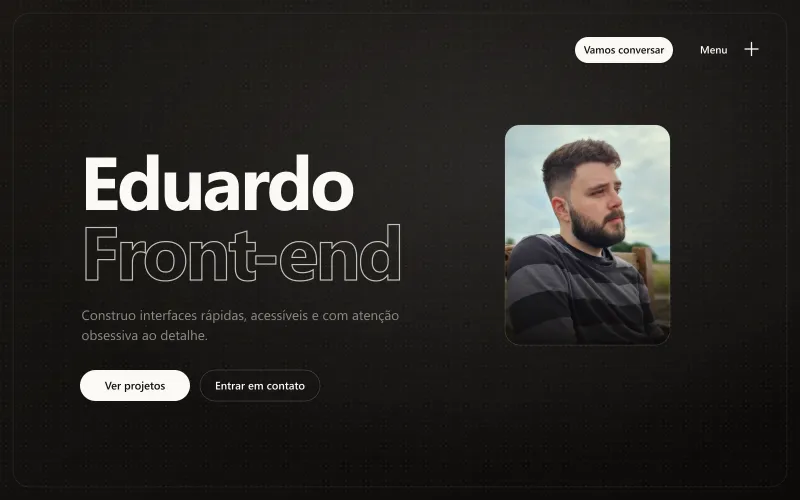
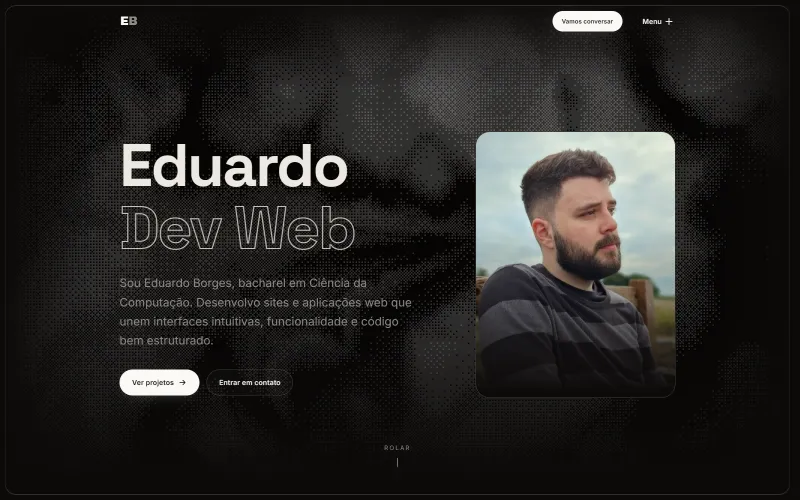
Correções da crítica: contato, projetos e ordem das seções
- Formulário não apaga a mensagem após o mailto; aviso com botão para
  copiar a mensagem caso o app de e-mail não abra
- Linha de disponibilidade no contato; "Vamos conversar" visível na
  barra do celular; campos com 16px e placeholder com contraste 4.9:1
- Captura nova do Portfólio (Dev Web) e texto do AFlo sobre o que foi
  construído; etiquetas de tecnologia em 11.5px
- Seção dos cubos depois de Projetos e com rolagem mais curta
- PRODUCT.md e registros do Impeccable (fora do deploy)

diff --git a/index.html b/index.html
@@ -387,6 +387,47 @@
       </div>
     </section>
 
+    <section class="section projetos" id="projetos">
+      <div class="container">
+        <header class="section__head" data-reveal>
+          <h2 class="section__title">Projetos</h2>
+          <p class="section__desc">Alguns projetos que desenvolvi.</p>
+        </header>
+
+        <div class="morph-slider" data-morph-slider
+             data-transition="melt"
+             data-intensity="0.5"
+             data-aberration="0.3"
+             data-drift="0.35"
+             data-duration="1.1"
+             data-autoplay="true"
+             data-autoplay-delay="5"
+             data-overlay-color="#0c0a09">
+
+          <ol class="morph-slider-items">
+            <li class="morph-slider-item"
+                data-titulo="AFlo"
+                data-descricao="Loja online de buquês artesanais de chenille. Construí o montador em que o cliente escolhe flor por flor, o checkout com Mercado Pago e o painel que organiza a produção dos pedidos."
+                data-stack="Next.js · TypeScript · Tailwind CSS · Prisma · PostgreSQL · Mercado Pago">
+              <a href="https://aflo-aflo.vercel.app/" target="_blank" rel="noopener noreferrer">Ver projeto</a>
+              <img src="assets/projetos/aflo.webp" srcset="assets/projetos/aflo-800.webp 800w, assets/projetos/aflo.webp 1600w" sizes="(max-width: 699px) calc(100vw - 4.5rem), 1100px" alt="Página inicial da loja AFlo, com um buquê de flores de chenille" width="1600" height="759" loading="lazy">
+            </li>
+
+            <li class="morph-slider-item"
+                data-titulo="Portfólio"
+                data-descricao="Meu portfólio pessoal, o site que você está vendo agora."
+                data-stack="HTML · CSS · JavaScript · GSAP · WebGL">
+              <a href="https://www.eduardobcg.com.br" target="_blank" rel="noopener noreferrer">Abrir site</a>
+              <img src="assets/projetos/portfolio.webp" srcset="assets/projetos/portfolio-800.webp 800w, assets/projetos/portfolio.webp 1600w" sizes="(max-width: 699px) calc(100vw - 4.5rem), 1100px" alt="Página inicial do portfólio de Eduardo Borges" width="1600" height="1000" loading="lazy">
+            </li>
+
+            
+
+          </ol>
+        </div>
+      </div>
+    </section>
+
     <section
       class="scroll-expand"
       data-scroll-expand
@@ -397,8 +438,8 @@
       data-start-radius="24"
       data-end-radius="0"
       data-media-zoom="1.35"
-      data-scroll-distance="1.2"
-      data-hold-distance="0.35"
+      data-scroll-distance="0.8"
+      data-hold-distance="0.2"
       data-smoothing="0.1"
       data-overlay-scrim="0.5"
       aria-label="Apresentação em tela cheia">
@@ -439,47 +480,6 @@
       </div>
     </section>
 
-    <section class="section projetos" id="projetos">
-      <div class="container">
-        <header class="section__head" data-reveal>
-          <h2 class="section__title">Projetos</h2>
-          <p class="section__desc" data-dica-lista="Alguns projetos que desenvolvi.">Arraste, use as setas ou espere — cada projeto abre no botão.</p>
-        </header>
-
-        <div class="morph-slider" data-morph-slider
-             data-transition="melt"
-             data-intensity="0.5"
-             data-aberration="0.3"
-             data-drift="0.35"
-             data-duration="1.1"
-             data-autoplay="true"
-             data-autoplay-delay="5"
-             data-overlay-color="#0c0a09">
-
-          <ol class="morph-slider-items">
-            <li class="morph-slider-item"
-                data-titulo="AFlo"
-                data-descricao="Loja de buquês artesanais de chenille, com montador passo a passo, checkout no Mercado Pago e painel de produção."
-                data-stack="Next.js · TypeScript · Tailwind CSS · Prisma · PostgreSQL · Mercado Pago">
-              <a href="https://aflo-aflo.vercel.app/" target="_blank" rel="noopener noreferrer">Ver projeto</a>
-              <img src="assets/projetos/aflo.webp" srcset="assets/projetos/aflo-800.webp 800w, assets/projetos/aflo.webp 1600w" sizes="(max-width: 699px) calc(100vw - 4.5rem), 1100px" alt="Página inicial da loja AFlo, com um buquê de flores de chenille" width="1600" height="759" loading="lazy">
-            </li>
-
-            <li class="morph-slider-item"
-                data-titulo="Portfólio"
-                data-descricao="Meu portfólio pessoal, o site que você está vendo agora."
-                data-stack="HTML · CSS · JavaScript · GSAP · WebGL">
-              <a href="https://www.eduardobcg.com.br" target="_blank" rel="noopener noreferrer">Abrir site</a>
-              <img src="assets/projetos/portfolio.webp" srcset="assets/projetos/portfolio-800.webp 800w, assets/projetos/portfolio.webp 1600w" sizes="(max-width: 699px) calc(100vw - 4.5rem), 1100px" alt="Página inicial do portfólio de Eduardo Borges" width="1600" height="1000" loading="lazy">
-            </li>
-
-            
-
-          </ol>
-        </div>
-      </div>
-    </section>
-
     <section class="section contato" id="contato">
       <div class="container">
         <header class="section__head" data-reveal>
@@ -496,6 +496,11 @@
               Se você precisa de um site, uma aplicação web ou quer conversar sobre uma
               oportunidade profissional, entre em contato. Será um prazer entender o que
               você precisa e encontrar a melhor solução.
+            </p>
+
+            <p class="contato__status" data-reveal>
+              <span class="contato__status-ponto" aria-hidden="true"></span>
+              Disponível para projetos e vagas · remoto, atendo todo o Brasil
             </p>
 
             <div class="contato__mail-row" data-reveal>

diff --git a/js/main.js b/js/main.js
@@ -101,9 +101,21 @@
 
       window.location.href = `mailto:eduardo26eduardo@gmail.com?subject=${subject}&body=${body}`;
 
-      status.textContent = 'Abrindo seu app de e-mail com a mensagem pronta…';
-      status.classList.add('is-success');
-      form.reset();
+      // Não dá para saber se o app de e-mail abriu. Por isso a mensagem fica
+      // no formulário (antes ela era apagada e se perdia quando não havia app)
+      // e há um jeito de levar o texto para outro lugar.
+      const mensagemCompleta = `${data.get('mensagem')}\n\n${data.get('nome')}\n${data.get('email')}`;
+      status.classList.add('is-info');
+      status.innerHTML =
+        'Abri seu app de e-mail com a mensagem pronta. Se ele não abriu, ' +
+        '<button type="button" class="form-status__copy">copie a mensagem</button> ' +
+        'e envie para eduardo26eduardo@gmail.com.';
+      status.querySelector('.form-status__copy').addEventListener('click', (ev) => {
+        const botao = ev.currentTarget;
+        copiarTexto(mensagemCompleta)
+          .then(() => { botao.textContent = 'mensagem copiada'; })
+          .catch(() => { botao.textContent = 'não deu para copiar'; });
+      });
     });
   }
 })();

diff --git a/css/layout.css b/css/layout.css
@@ -403,8 +403,28 @@
 
 .contato__texto {
   max-width: 46ch;
-  margin-bottom: 2rem;
+  margin-bottom: 1.4rem;
   color: var(--muted);
+}
+
+/* disponibilidade: fato confirmado que responde "ele pode pegar agora?" */
+.contato__status {
+  display: flex;
+  align-items: flex-start;
+  gap: .6rem;
+  margin-bottom: 1.6rem;
+  font-size: var(--fs-sm);
+  font-weight: 500;
+  color: var(--text);
+}
+.contato__status-ponto {
+  flex: none;
+  margin-top: .5em;
+  width: .5rem;
+  height: .5rem;
+  border-radius: 50%;
+  background: #4ade80;
+  box-shadow: 0 0 0 4px rgba(74, 222, 128, .14);
 }
 
 .contato__mail-row {
@@ -484,7 +504,13 @@
 }
 
 @media (max-width: 768px) {
-  .nav__inner .nav__cta { display: none; }
+  /* o contato é o objetivo do site: o botão fica na barra também no
+     celular, onde a maioria abre o link; só fica mais compacto */
+  .nav__inner { gap: 1rem; }
+  .nav__inner .nav__cta {
+    min-height: 40px;
+    padding-inline: .95rem;
+  }
 
   .hero {
     min-height: auto;

diff --git a/css/components.css b/css/components.css
@@ -171,7 +171,8 @@
   border-radius: var(--radius-sm);
   background: var(--bg);
   color: var(--text);
-  font-size: var(--fs-sm);
+  /* 16px: abaixo disso o Safari do iPhone dá zoom no campo ao tocar */
+  font-size: 1rem;
   transition: border-color .25s var(--ease-out), background .25s var(--ease-out);
   resize: vertical;
 }
@@ -214,3 +215,14 @@
 }
 .form-status.is-success { color: #4ade80; }
 .form-status.is-error   { color: #f87171; }
+.form-status.is-info    { color: var(--accent-2); }
+
+.form-status__copy {
+  padding: 0;
+  color: var(--text);
+  font-weight: 600;
+  text-decoration: underline;
+  text-underline-offset: .2em;
+  text-decoration-color: rgba(250, 249, 246, .4);
+}
+.form-status__copy:hover { text-decoration-color: currentColor; }

diff --git a/css/base.css b/css/base.css
@@ -53,7 +53,7 @@ a { color: inherit; text-decoration: none; }
   --surface-2:   #211d18;
   --text:        #ece8e1;
   --muted:       #8f8a83;
-  --placeholder: #6f6a63;
+  --placeholder: #86817a;
   --line:        rgba(250, 249, 246, .09);
   --line-strong: rgba(250, 249, 246, .18);
 

diff --git a/css/morph-slider.css b/css/morph-slider.css
@@ -88,7 +88,7 @@
   padding: .28rem .65rem;
   border-radius: var(--radius-pill);
   border: 1px solid var(--line-strong);
-  font-size: .68rem;
+  font-size: .72rem;
   font-weight: 500;
   line-height: 1.2;
   letter-spacing: .08em;

diff --git a/PRODUCT.md b/PRODUCT.md
@@ -1,0 +1,64 @@
+# Product
+
+<!-- impeccable:product-schema 1 -->
+
+## Platform
+
+web
+
+## Users
+
+Dois públicos com o mesmo peso:
+
+- **Clientes**: pessoas e pequenos negócios que precisam de um site ou de uma aplicação web e estão avaliando quem contratar.
+- **Recrutadores e empresas**: quem avalia Eduardo para uma vaga de desenvolvedor web.
+
+Os dois chegam pelo link (LinkedIn, GitHub, indicação ou busca pelo nome) e precisam decidir em poucos minutos se vale a pena conversar.
+
+## Product Purpose
+
+Portfólio pessoal de Eduardo Borges, Dev Web. Apresenta quem ele é, o que já construiu e como entrar em contato. O sucesso é o visitante **entrar em contato** (formulário, e-mail, LinkedIn) para falar de um projeto ou de uma vaga.
+
+## Positioning
+
+Desenvolvedor web e bacharel em Ciência da Computação que começou no suporte técnico. Essa origem é o diferencial: olha além do código, entende a necessidade de quem usa, identifica o problema e busca a solução que funciona no dia a dia. O próprio site demonstra o cuidado técnico (animações, efeitos em WebGL, desempenho e acessibilidade) em vez de só afirmar.
+
+## Operating Context
+
+- Atende o Brasil todo, em trabalho remoto.
+- Está disponível agora para projetos e vagas; o site pode dizer isso.
+- Visitantes abrem tanto no celular (links compartilhados) quanto no desktop (recrutadores, clientes avaliando com calma).
+- Contato: formulário que abre o e-mail (mailto), e-mail eduardo26eduardo@gmail.com com botão de copiar, GitHub (EduardoBCGomes) e LinkedIn.
+
+## Capabilities and Constraints
+
+- Site estático em HTML, CSS e JavaScript puro, sem framework e sem etapa de build; animações com GSAP via CDN; publicado na Vercel (www.eduardobcg.com.br é o endereço principal; o domínio sem www e eduardobcg.vercel.app redirecionam para ele).
+- Página única com seções: topo (hero), Sobre mim, apresentação expansível, Projetos, Contato e rodapé.
+- Tecnologias que Eduardo usa e pode citar: HTML, CSS, JavaScript, TypeScript, React, Next.js, Tailwind CSS, GSAP, WebGL, Git.
+- Idioma: português do Brasil.
+- Sem backend: o formulário não envia por servidor, abre o app de e-mail.
+
+## Brand Commitments
+
+- Nome público: Eduardo Borges; título curto "Dev Web" (por extenso "desenvolvedor web" onde a busca importa).
+- Identidade visual atual deve ser preservada: paleta monocromática quente (fundo quase preto, texto creme), monograma "EB" (E cheio, B em cinza), efeitos em dither/WebGL.
+- Voz: primeira pessoa, direta e simples; textos que não soem genéricos ou escritos por IA (evitar frases de efeito vazias e travessões decorativos).
+
+## Evidence on Hand
+
+- Projetos reais: **AFlo** (loja de buquês de chenille com montador passo a passo, checkout no Mercado Pago e painel de produção; Next.js, TypeScript, Tailwind CSS, Prisma, PostgreSQL) em aflo-aflo.vercel.app, e o **próprio portfólio**.
+- Fotos reais: `assets/img/retrato.webp`, `assets/img/corpo.webp`; capturas dos projetos em `assets/projetos/`.
+- Formação: bacharel em Ciência da Computação. Experiência anterior em suporte técnico.
+- Não existem depoimentos, clientes nomeados, números de resultado ou certificações: não inventar.
+
+## Product Principles
+
+1. O contato é o destino: toda seção deve deixar fácil e natural chegar a ele.
+2. Mostrar, não afirmar: o cuidado técnico aparece na execução do próprio site.
+3. Falar com clientes e recrutadores ao mesmo tempo, sem jargão que afaste quem não é técnico.
+4. Rápido e estável: o carregamento e as animações nunca podem atrapalhar a leitura.
+5. Verdade antes de impacto: só fatos e projetos reais.
+
+## Accessibility & Inclusion
+
+Manter acessibilidade 100 no Lighthouse: textos com contraste adequado, navegação por teclado, leitores de tela (título com nome completo), e respeito a "reduzir movimento".

diff --git a/.impeccable/critique/2026-10-22T02-03-20Z__index-html.md b/.impeccable/critique/2026-10-22T02-03-20Z__index-html.md
@@ -1,0 +1,45 @@
+---
+target: portfólio (index.html)
+total_score: 21
+max_score: 32
+na_heuristics: 7,10
+p0_count: 0
+p1_count: 3
+target_identity: "file:C:\\Users\\Eduardo\\Documents\\CODE\\portifolio\\index.html"
+target_fingerprint: "sha256:72122bb86c43a5345062344e8c7d3639f5b1e753a2a9c82f3c237371a0a117a8"
+target_path: "C:\\Users\\Eduardo\\Documents\\CODE\\portifolio\\index.html"
+timestamp: 2026-10-22T02-03-20Z
+slug: index-html
+---
+# Crítica: index.html
+
+Nota: 21/32 (Aceitável, 66%). Heurísticas 7 e 10 n/a (portfólio de uma página).
+
+| # | Heurística | Nota | Ponto |
+|---|---|---|---|
+| 1 | Status | 3 | Formulário diz sucesso mesmo sem app de e-mail |
+| 2 | Mundo real | 3 | Textos falam do mecanismo ("role para expandir", "Arraste...") |
+| 3 | Controle | 2 | Volta automática no fim (footer-dither.js voltar()), ~2.000 px de cubos, autoplay do carrossel |
+| 4 | Consistência | 2 | Captura do Portfólio mostra "Front-end" antigo; CTA some na barra do celular |
+| 5 | Prevenção de erros | 2 | main.js reseta o formulário após mailto |
+| 6 | Reconhecimento | 3 | ok |
+| 7 | Flexibilidade | n/a | |
+| 8 | Estética | 3 | 6 camadas de efeito para 2 projetos |
+| 9 | Recuperação | 3 | Falha do mailto sem saída |
+| 10 | Ajuda | n/a | |
+
+Especificidade: metade autoral (EB, paleta, dither, fotos, rodapé), metade genérica (faixa ondulada, esteira de logos, cartão expansível com frase de efeito, carrossel; copy "Cada pixel...", "Do pixel ao produto", "Vamos tirar sua ideia do papel?").
+Detector: low-contrast x3 (placeholders 3,7:1, css/base.css --placeholder), undersized-ui-text x6 (.morph-slider-stack li .68rem), overused-font Inter (gosto), cramped-padding morph-slider e overused-font Space Grotesk (falsos positivos).
+
+## Problemas prioritários
+1. [P1] Projetos com pouca prova e captura do Portfólio desatualizada. Fix: nova captura, caso do AFlo detalhado, copy sobre conteúdo. /impeccable clarify, /impeccable layout
+2. [P1] Rolagem sequestrada: voltar() no rodapé e ~2.000 px de scroll-expand. Fix: remover/limitar volta automática; encurtar ou mover cubos. /impeccable animate, /impeccable distill
+3. [P1] Contato sem garantia e perde mensagem no mailto. Fix: não resetar, aviso de cópia, linha de disponibilidade/remoto, WhatsApp. /impeccable harden, /impeccable clarify
+4. [P2] Copy do meio soa IA (overlay do scroll-expand, "Do pixel ao produto", "Design System" sem prova, tríade repetida). /impeccable clarify
+5. [P2] Mobile: sem CTA de contato na barra, lead cinza sobre dither, alvos de toque < 44 px (.footer__top, .nav__logo, .contato__mail). /impeccable adapt
+
+## Perfis
+Jordan: cubos/"role para expandir" confusos. Casey: sem botão de contato, 2.000 px de cubos, sem WhatsApp. Riley: mensagem perdida, volta automática, autoplay sem pausa. Recrutador: projeto autorreferente, sem link de repo, sem "disponível". Cliente: jargão de stack, sem tipos de projeto/prazo.
+
+## Menores
+Faixa ondulada com espaço vazio; legenda do carrossel abaixo da dobra no desktop; aria-label do menu difere do texto; placeholders 3,7:1; etiquetas 10,9 px.
